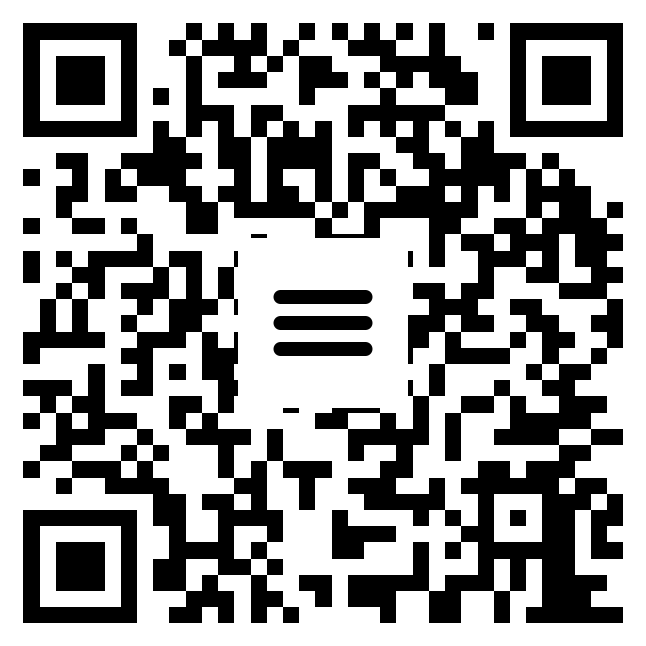
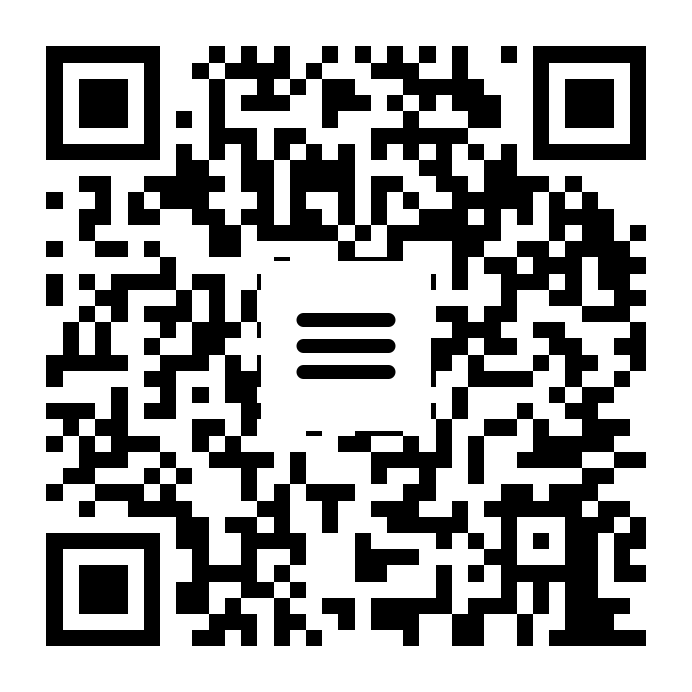
Double white padding around QR codes
- Increased padding from 23px to 46px (~6mm)
- More generous white space around QR code
- Better visual balance

🤖 Generated with [Claude Code](https://claude.com/claude-code)

diff --git a/generate-qr-png.js b/generate-qr-png.js
@@ -20,8 +20,8 @@ async function generateQRWithIcon(filename, iconSVG) {
     // Load QR code image
     const qrImage = await loadImage(qrDataURL);
 
-    // Add white padding around QR code (~3mm = ~23px at print resolution)
-    const padding = 23;
+    // Add white padding around QR code (~6mm = ~46px at print resolution)
+    const padding = 46;
     const borderRadius = 35;
 
     // Create canvas with padding
